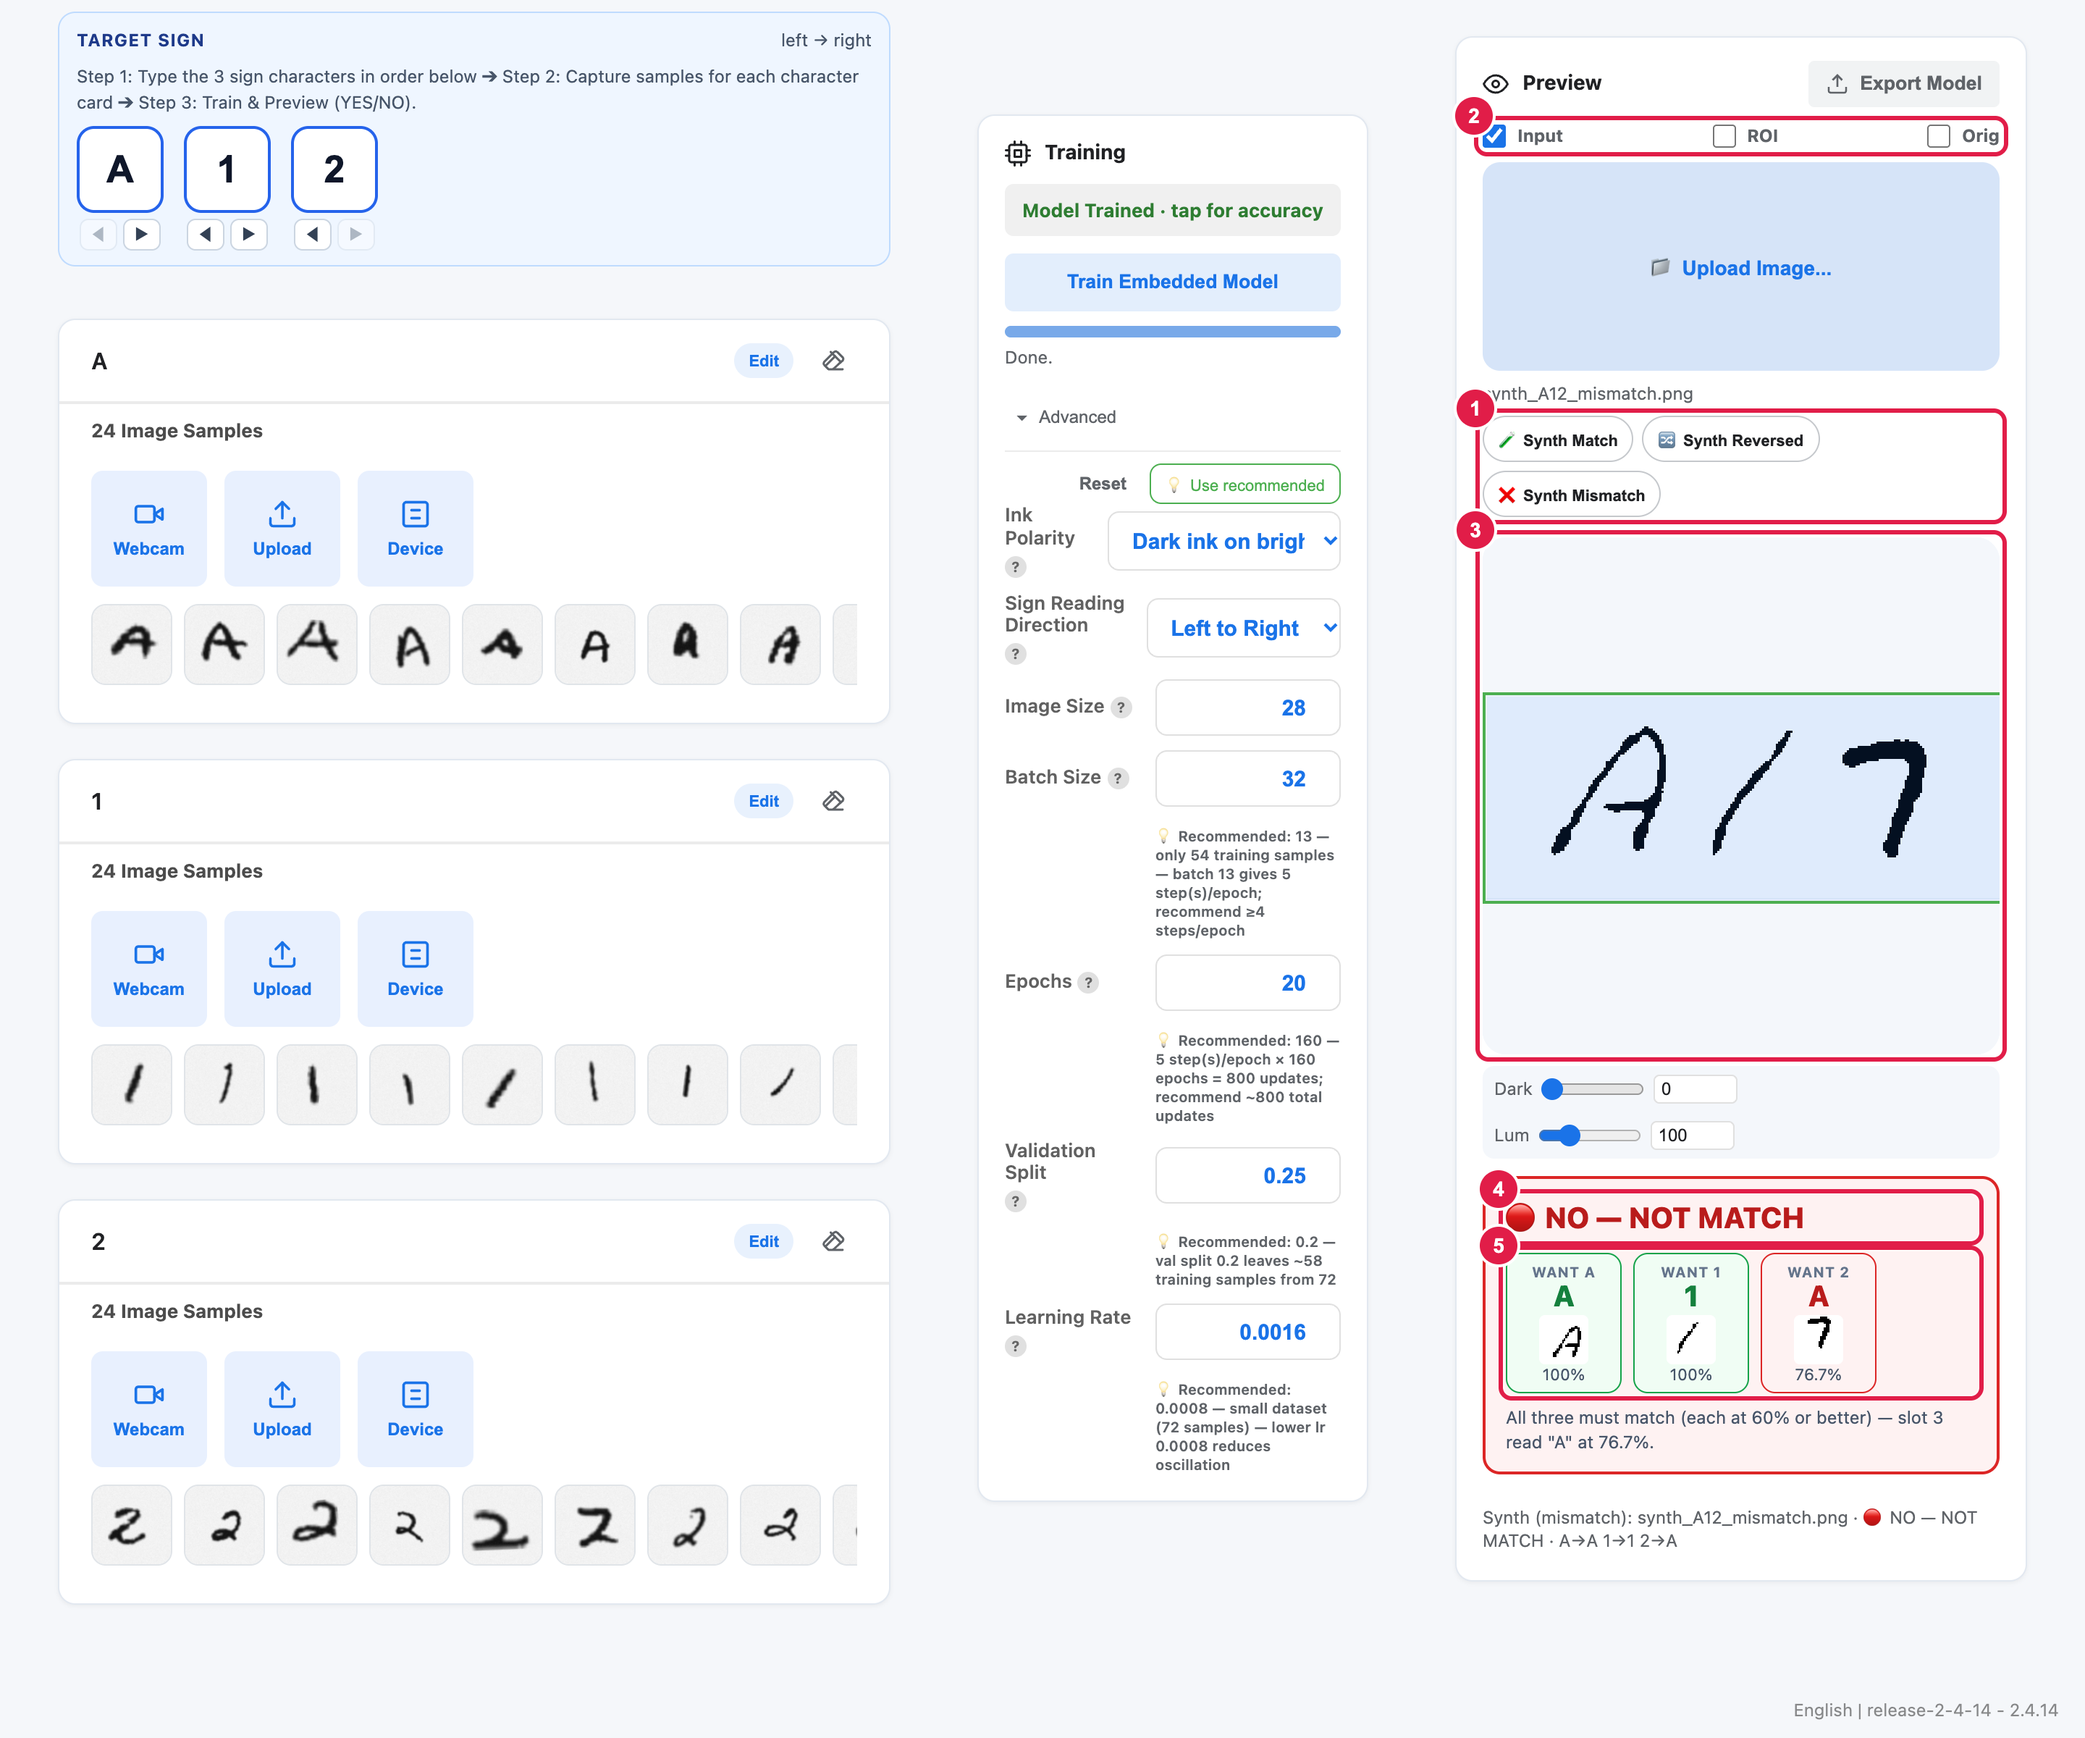
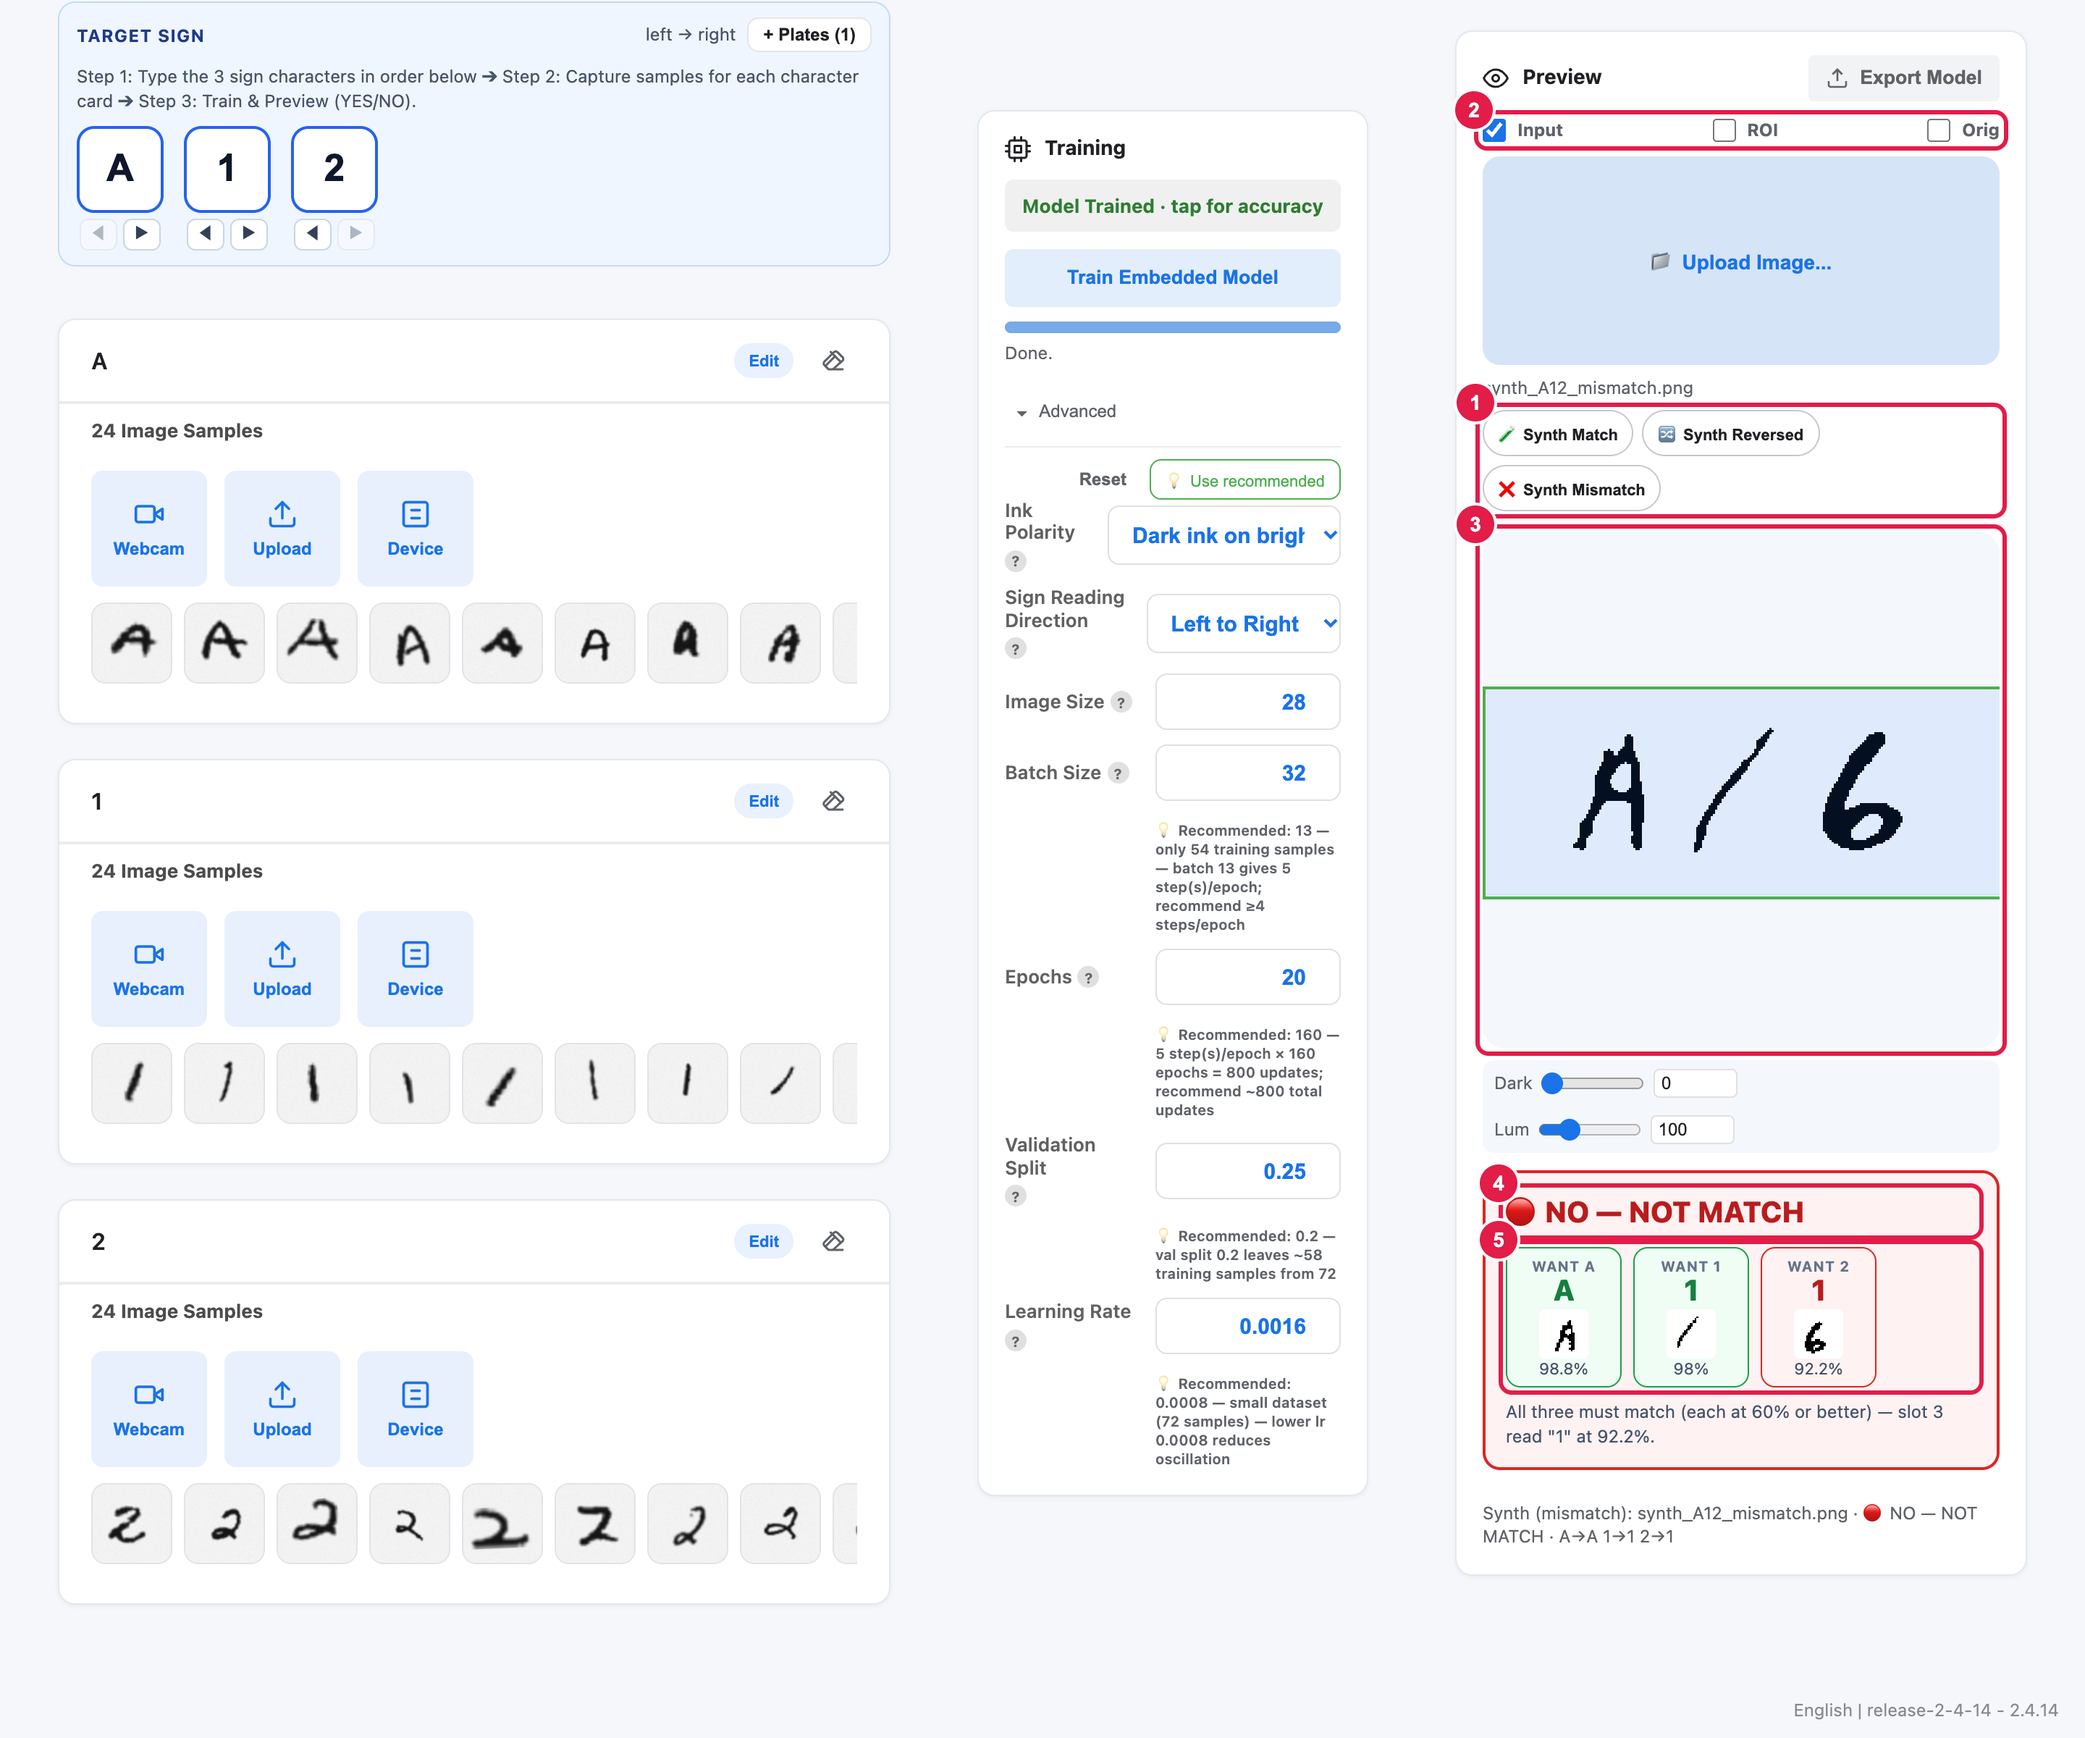
AItraining: document the License List, img_size scaling and export contents
Student-facing text for the three newest features:
- Section 2: the 🪪 License List gatekeeper — multiple allowed plates
  (e.g. A 1 2 and B 1 8), unique characters shared across the Sample Area
  cards, and 🟢 YES — MATCH whenever ANY listed plate is seen.
- Section 4: camera frames (e.g. 160×160 from ⚙ Settings) are scaled to
  the model's input size (96×96 preprocessing / 28×28 slots), and the
  exported img_size travels in model_settings.h; the hyperparameter table
  row is renamed to the app's "Use _background noise class to replace OOD
  rejection" (default Off).
- Section 5: Export Model packs the trained weights, img_size scaling,
  _background / OOD settings and the full allowed-plate list into
  model_settings.h, so the ESP32-P4 can report which plate matched.

Figure 4a/6 fix: element captures of the settings card now whiten the
rounded-corner cutouts (the dim modal backdrop was showing through them
as gray blocks in the top corners of the composites).

diff --git a/scripts/build_car_sign_manual.py b/scripts/build_car_sign_manual.py
@@ -381,6 +381,29 @@ def snap_element(ws, selector: str, path: Path) -> None:
     path.parent.mkdir(parents=True, exist_ok=True)
     ws.locator(selector).screenshot(path=str(path))
     log(f"screenshot -> {path.name} (element {selector})")
+    # The settings card has rounded corners; Chromium composites the dim
+    # modal backdrop into the corner cutouts, which shows up as gray blocks
+    # in the composite.  Restore the card's white corner background.
+    _whiteout_rounded_corners(path)
+
+
+def _whiteout_rounded_corners(path: Path, radius_css: float = 14.0) -> None:
+    """Replace the rounded-corner cutouts of an element capture with white.
+
+    Playwright element screenshots include the pixels BEHIND the element in
+    the corners left empty by the CSS border-radius (the dim modal
+    backdrop).  Pasting the image through a matching rounded-rectangle mask
+    onto a white canvas removes those gray corner blocks.
+    """
+    im = Image.open(path).convert("RGB")
+    radius = int(round(radius_css * DEVICE_SCALE))
+    mask = Image.new("L", im.size, 0)
+    ImageDraw.Draw(mask).rounded_rectangle(
+        [0, 0, im.width - 1, im.height - 1], radius=radius, fill=255
+    )
+    white = Image.new("RGB", im.size, (255, 255, 255))
+    white.paste(im, mask=mask)
+    white.save(path)
 
 
 def _assert_fully_visible(page, ws, selectors: Sequence[str], margin: int = 30) -> None:
@@ -1232,10 +1255,14 @@ def build_docx(assets: Dict[str, Path]) -> Path:
 
     # ── 3. Sample Area Part A ───────────────────────────────────────────
     _heading(doc, "2. Sample Area — Part A: Setting the Target License & Collecting Samples", 3)
-    _para(doc, "Setting the 3-Character Target Sign:", bold=True)
+    _para(doc, "Setting the Target License (single plate):", bold=True)
     _bullet(doc, "Click each of the three boxes in the Target Sign Bar and type your 3 characters (for example, A, 1, 2). Use the ◀ / ▶ buttons beneath a slot to swap neighbouring characters.")
-    _bullet(doc, "If your sign uses the same character twice (like A 1 A), the app automatically keeps just one A card with a “Slots 1 & 3” badge so you only need to collect samples for A once!")
+    _bullet(doc, "If your license uses the same character twice (like A 1 A), the app automatically keeps just one A card with a “Slots 1 & 3” badge so you only need to collect samples for A once!")
     _figure(doc, assets["03_target_sequence_and_dedup"], "Figure 3 — The Target Sign Bar: typing characters, the ◀ / ▶ swap buttons and the duplicate-character badge.")
+    _para(doc, "Want your AI “gatekeeper” to accept more than one license plate?", bold=True)
+    _bullet(doc, "Click the 🪪 License List button next to ⚙ Settings in the top bar and add several allowed plates — for example both A 1 2 and B 1 8!", bold_prefix="🪪 License List")
+    _bullet(doc, "The app automatically combines the unique letters/numbers of all your plates into the Sample Area cards, so a repeated character like 1 is only collected once.")
+    _bullet(doc, "In Preview, the app shows 🟢 YES — MATCH whenever ANY plate on your allowed list is seen!")
     _para(doc, "Collecting Samples for Each Character Card:", bold=True)
     _callout_box(
         doc,
@@ -1294,19 +1321,28 @@ def build_docx(assets: Dict[str, Path]) -> Path:
         "to view or adjust the training hyperparameters. Below is the table for each "
         "hyperparameter:",
     )
+    _para(
+        doc,
+        "About the Image Size: even if the smart-car camera captures frames at 160×160 "
+        "(set in ⚙ Settings), the app automatically scales every camera frame to match the "
+        "model's input size — 96×96 for the picture preprocessing and 28×28 for each "
+        "character slot. The exported model carries its img_size with it (in "
+        "model_settings.h), so the car always scales the camera frames to exactly the size "
+        "the model was trained on.",
+    )
     _add_table(
         doc,
         ["#", "Hyperparameter", "Default", "Range", "What it does"],
         [
             ["1", "Ink Polarity", "0 — Dark ink on bright bg", "0 / 1", "Which way round your letters are: normal dark-on-light writing (0), or bright letters on a dark sign (1)."],
             ["2", "Sign Reading Direction", "Left to Right", "L ➔ R / R ➔ L", "The order the app reads the three boxes of your sign."],
-            ["3", "Image Size", "28", "8–512", "How many pixels wide the small letter picture is. 28×28 fits one letter perfectly — leave it."],
+            ["3", "Image Size", "28", "8–512", "How many pixels wide the small letter picture is. 28×28 fits one letter perfectly — leave it. Whatever the camera sends (even 160×160), the app scales it to this size automatically."],
             ["4", "Batch Size", "32", "1 or more", "How many photos the AI practices with in one go."],
             ["5", "Epochs", "20", "1 or more", "How many times the AI reads through all your photos. For this project the app follows its own smart two-phase plan."],
             ["6", "Validation Split", "0.25", "0–0.5", "The part of your photos kept secret for testing."],
             ["7", "Learning Rate", "0.0016", "0 or more", "How big each learning step is. Small steps = careful but slow."],
             ["8", "Mix EMNIST into every class", "On", "on / off", "Mixes built-in handwriting examples with your photos so the AI learns from more variety."],
-            ["9", "Background / noise class", "Off", "on / off", "Default is Off for the Car License Project so the AI focuses purely on your 3 characters and uses standard OOD/confidence checks; turn On only if you want an extra “no letter” class to replace OOD."],
+            ["9", "Use _background noise class to replace OOD rejection", "Off", "on / off", "Default is Off for the Car License Project so the AI focuses purely on your 3 characters and uses standard OOD/confidence checks; turn On only if you want an extra “no letter” class to replace OOD."],
             ["10", "Fine-tune pre-trained backbone", "On", "on / off", "Starts from a smart pre-learned letter reader so your model trains fast and accurately even with just 20 photos!"],
         ],
         widths=[0.3, 1.55, 1.3, 1.0, 2.35],
@@ -1338,6 +1374,7 @@ def build_docx(assets: Dict[str, Path]) -> Path:
     _bullet(doc, "When all 3 slots match your target characters with at least 60% confidence, the banner turns green: 🟢 YES — MATCH. If any slot reads a different character, is below 60%, or is blank (_background), the banner turns red: 🔴 NO — NOT MATCH and explains which slot failed.")
     _para(doc, "Exporting the Model & Saving Your Project:", bold=True)
     _bullet(doc, "Click Export Model at the top-right of the Preview card to export the C/C++ model files (tm_model_data.cpp/.h, model_resolver.h, model_settings.cpp/.h, tm.tflite, labels.txt).")
+    _bullet(doc, "The export packs in everything the car needs: the trained weights, the img_size scaling parameters, the _background / OOD settings, and the full list of your allowed license plates — all into model_settings.h. When the car sees a plate, the ESP32-P4 checks it against the list and tells the ESP32-S3 which specific plate number matched!")
     _bullet(doc, "Click File ▾ → Save (or Save as) at the top-left menu to save your project as a .tmproj file.")
     _figure(doc, assets["08_export_and_save"], "Figure 8 — Export Model on the Preview card and File ▾ → Save / Save as.")
     _para(
